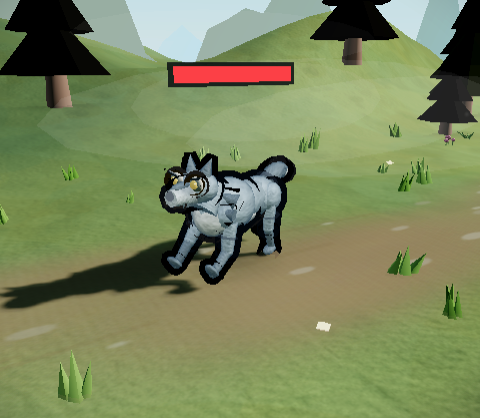
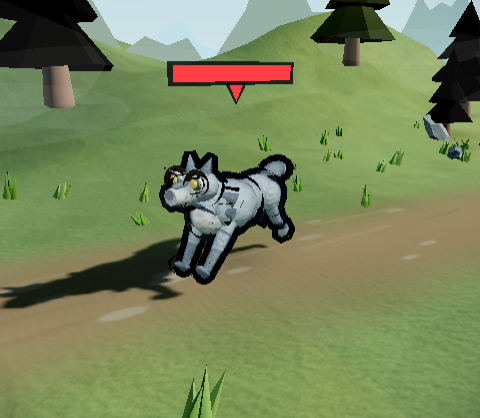
늑대 몸 덩어리 17개가 눌린 완전구였던 것 — 살에는 살의 자로 (enemy-quality ⓒ 늑대)
골렘은 각지게 깎는 게 정답이지만 살·털에 같은 자를 대면 '수정 늑대'가 된다.
그래서 sculptOrganic 을 따로 뒀다 — 저진폭·저주파로 부드럽게 윤곽만 깨고
법선을 매끈하게 다시 계산한다.

- 주파수를 낮게 잡으면 변형이 통째로 무효였다: 지름에 한 주기가 안 들어가면
  변위가 균일 스케일에 수렴해 실루엣이 안 깨진다(seed 따라 cv 0.0188~0.0542).
  3.1/2.6/2.1 로 올려 0.0312~0.0662 로 안정. 진폭이 아니라 주파수가 답이었다.
- 프로브 측정 대상 오선정 2건 교정: 눈알(완전구가 정답)과 공용 캡슐 캡을 제외.
  캡슐 판별을 자식 수가 아니라 기하학으로 확정(캡 y = 원기둥 y 의 2배).
  같은 판별을 probe-golem-bevel 에도 반영, 골렘 재검증 통과.
- 신설 probe-flesh-sculpt.js 5항목 통과 · 이음새 찢어짐 0 · 법선각 24.5°.
- 회귀: probe-enemy-ao 늑대 후프 유출 0 · probe-screens-errors 31/31 에러 0.
- 죽은 코드 1건(backStripe 미부착)은 규칙 3대로 QA 등재만.

diff --git a/web/tools/probe-flesh-sculpt.js b/web/tools/probe-flesh-sculpt.js
@@ -1,0 +1,197 @@
+// 살·털 종 조형(ⓒ 유기 변형) 실측 — 사용: node probe-flesh-sculpt.js
+// TODO '적 몬스터 퀄리티 업'(slug: enemy-quality) ⓒ 의 골렘 이후 분. 골렘은 `boulderGeo` 로 **각지게**
+// 깎았지만 늑대·고블린·임프는 살이라 같은 자를 대면 '수정 늑대'가 된다 — `Scene3D.sculptOrganic` 은
+// 저주파·저진폭으로 **부드럽게** 윤곽만 깬다. 그래서 게이트도 golem 쪽(probe-golem-bevel)과 다르다.
+//
+// ⚠ 인자를 손으로 베끼지 않는다(함정 ④⑴) — 늑대는 `Scene3D.monsterMesh()` 를 진짜로 태워서 잰다.
+//    ②④ 만 헬퍼 계약 자체를 재는 것이라 직접 호출한다.
+//
+// 지표 4종:
+//  ① 실루엣 비대칭 — 완전구는 반경 변동계수 0 이다. 유기 변형은 골렘보다 **일부러 약하므로** 게이트도 낮다.
+//  ② 이음새 무결성 — `SphereGeometry` 는 인덱스 지오메트리지만 **uv 이음새(u=0/u=1)와 극점에 같은
+//     좌표의 정점이 여러 벌** 있다. 인덱스로 변위를 뽑으면 그 사본들이 제각각 움직여 이음새가 찢어진다.
+//     변형 **전에 같은 좌표였던 정점 무리가 변형 후에도 한 점에 모여 있는가**를 직접 본다.
+//  ③ 부드러움 — 이웃 삼각형 법선 사이 각. 각지게 깎였으면(=boulderGeo 를 잘못 쓴 것) 여기서 튄다.
+//  ④ 결정론 — 같은 seed 두 번이면 정점이 비트 단위로 같아야 한다(전역 RNG 불소비).
+//  ⑤ 개체차 — 파츠끼리 사실상 같은 덩어리면 '복붙'이다. ⚠ 상관계수 금지(기반 형상이 공통이면 자동 1).
+const { chromium } = require(process.env.PW_PATH || '/opt/node22/lib/node_modules/playwright');
+const INDEX = 'file://' + require('path').resolve(__dirname, '../index.html');
+
+const CV_MIN = 0.022;    // 완전구는 0. 유기 변형은 골렘(0.055)보다 약하게 거는 게 의도다.
+const SMOOTH_MAX = 34;   // 이웃 면 법선각 평균 상한(도) — 넘으면 결정처럼 각졌다는 뜻
+const DIFF_MIN = 0.015;  // 파츠 간 정규화 반경 RMS 차
+
+(async () => {
+    const browser = await chromium.launch({ executablePath: '/opt/pw-browsers/chromium', args: ['--use-gl=angle', '--enable-unsafe-swiftshader'] });
+    const page = await browser.newPage({ viewport: { width: 480, height: 854 } });
+    const errors = [];
+    page.on('pageerror', e => errors.push(String(e)));
+    page.on('console', m => { if (m.type() === 'error') errors.push(m.text()); });
+    await page.goto(INDEX + '?enemy=wolf', { waitUntil: 'load' });
+    await page.waitForFunction(() => typeof Scene3D !== 'undefined' && Scene3D.scene, null, { timeout: 60000 });
+    await page.waitForTimeout(1200);
+
+    const res = await page.evaluate(() => {
+        const out = { masses: [], seam: null, det: null, pairs: [], nSphere: 0, nCapsule: 0 };
+
+        const g = Scene3D.monsterMesh({ id: 1 }).g;   // .g 가 씬 그룹 (monsterMesh 는 파츠 묶음을 준다)
+
+        // `ProChar.capsule`(Cylinder + 아래쪽 반구 캡)은 영웅도 쓰는 **공용 사지 프리미티브**라
+        // ⓒ 대상이 아니다 — 피벗이 위쪽 끝인 분절 리그가 얹혀 있어 지오메트리를 갈면 굽힘이 틀어진다.
+        // 캡도 furM/furD 를 물고 있어 재질 필터만으로는 안 걸러진다(실측: 8개가 그대로 섞여 들어와
+        // 좌우 대칭 캡끼리 최소차 0.0000 을 냈다). golem 쪽 프로브와 같은 판별을 쓴다.
+        const isCapsulePart = m => {
+            // ⚠ 자식 수로 판별하지 말 것 — 분절 사지는 캡슐 그룹에 **다음 마디를 매달아** 키운다
+            //    (`upper.add(lower)`·`lower.add(paw)`). 늑대는 그래서 자식이 3개라 '정확히 2개' 조건이
+            //    통째로 빗나갔고 캡 8개가 게이트에 섞여 들어왔다(실측: 좌우 대칭 캡끼리 최소차 0.0000).
+            //    구조로 본다 — 같은 재질의 Cylinder 형제가 있으면 그건 캡슐의 반구 캡이다.
+            //    ⚠ 반대로 '같은 재질 Cylinder 형제가 있으면 캡슐'로 느슨하게 보면 이번엔 **몸통이
+            //    통째로 제외된다** — 늑대는 `belly`·`neckW` 원기둥이 흉곽·골반과 같은 furM 을 물고
+            //    같은 그룹에 있다(실측: 측정 대상이 19개에서 7개로 줄었다).
+            //    캡슐의 캡은 기하학적으로 확정된다: 캡 반지름 = 원기둥 아래 반지름이고,
+            //    원기둥이 y=-len/2, 캡이 y=-len 이라 **캡의 y 는 정확히 원기둥 y 의 2배**다.
+            //    캡슐은 두 피스 다 게이트 밖이라 **양쪽 역할을 다 본다** — 캡만 걸러내면 원기둥 6개가
+            //    그대로 '프리미티브 잔존'으로 잡힌다(실측).
+            const p = m.parent;
+            if (!p || !p.isGroup) return false;
+            const pair = (sph, cyl) => {
+                const r = sph.geometry.parameters && sph.geometry.parameters.radius;
+                const cp = cyl.geometry.parameters || {};
+                return r !== undefined && Math.abs(cp.radiusBottom - r) < 1e-9
+                    && Math.abs(sph.position.y - 2 * cyl.position.y) < 1e-9;
+            };
+            const t = m.geometry.type;
+            if (t !== 'SphereGeometry' && t !== 'CylinderGeometry') return false;
+            return p.children.some(c => {
+                if (c === m || !c.isMesh || c.material !== m.material) return false;
+                if (t === 'SphereGeometry') return c.geometry.type === 'CylinderGeometry' && pair(m, c);
+                return c.geometry.type === 'SphereGeometry' && pair(c, m);
+            });
+        };
+
+        // ── ① 실루엣: 늑대의 구 유래 메시를 진짜 코드 경로에서 잰다 ──
+        g.traverse(m => {
+            if (!m.isMesh || m.geometry.type !== 'SphereGeometry') return;
+            // 털 재질(hideTex 맵을 문 것)만 — 눈알(흰자·홍채·동공·하이라이트)은 **완전구가 정답**이라
+            // 여기에 섞이면 ①⑤ 가 영원히 FAIL 한다(실측: 필터 없이 34개가 잡혀 최소차 0.0000).
+            // 코(MeshBasic, 맵 없음)도 광택 구슬이라 그대로 둔다.
+            if (!m.material || !m.material.map) return;
+            if (isCapsulePart(m)) { out.nCapsule++; return; }
+            const pos = m.geometry.attributes.position;
+            out.nSphere++;
+            let cx = 0, cy = 0, cz = 0;
+            for (let i = 0; i < pos.count; i++) { cx += pos.getX(i); cy += pos.getY(i); cz += pos.getZ(i); }
+            cx /= pos.count; cy /= pos.count; cz /= pos.count;
+            const rs = [];
+            for (let i = 0; i < pos.count; i++) rs.push(Math.hypot(pos.getX(i) - cx, pos.getY(i) - cy, pos.getZ(i) - cz));
+            const mean = rs.reduce((a, b) => a + b, 0) / rs.length;
+            const sd = Math.sqrt(rs.reduce((a, b) => a + (b - mean) * (b - mean), 0) / rs.length);
+
+            // ③ 부드러움 — 인덱스를 공유하는 이웃 삼각형끼리 법선각
+            const idx = m.geometry.index;
+            let angSum = 0, angN = 0, angMax = 0;
+            if (idx) {
+                const triN = [], edge = new Map();
+                const V = i => [pos.getX(i), pos.getY(i), pos.getZ(i)];
+                for (let f = 0; f < idx.count; f += 3) {
+                    const a = V(idx.getX(f)), b = V(idx.getX(f + 1)), c = V(idx.getX(f + 2));
+                    const u = [b[0] - a[0], b[1] - a[1], b[2] - a[2]], v = [c[0] - a[0], c[1] - a[1], c[2] - a[2]];
+                    const n = [u[1] * v[2] - u[2] * v[1], u[2] * v[0] - u[0] * v[2], u[0] * v[1] - u[1] * v[0]];
+                    const L = Math.hypot(n[0], n[1], n[2]) || 1;
+                    triN.push([n[0] / L, n[1] / L, n[2] / L]);
+                    const t = triN.length - 1;
+                    for (const [p1, p2] of [[idx.getX(f), idx.getX(f + 1)], [idx.getX(f + 1), idx.getX(f + 2)], [idx.getX(f + 2), idx.getX(f)]]) {
+                        const k = [p1, p2].sort((x, y) => x - y).join('_');
+                        if (edge.has(k)) {
+                            const o = triN[edge.get(k)];
+                            const d = Math.min(1, Math.max(-1, o[0] * triN[t][0] + o[1] * triN[t][1] + o[2] * triN[t][2]));
+                            const ang = Math.acos(d) * 180 / Math.PI;
+                            angSum += ang; angN++; angMax = Math.max(angMax, ang);
+                        } else edge.set(k, t);
+                    }
+                }
+            }
+            out.masses.push({ n: pos.count, cv: mean ? sd / mean : 0, angMean: angN ? angSum / angN : 0, angMax, prof: rs.map(r => r / mean) });
+        });
+
+        // ── ② 이음새 무결성: 변형 **전** 좌표로 무리를 짓고, 변형 후에도 한 점인지 본다 ──
+        {
+            const raw = new THREE.SphereGeometry(0.19, 12, 9);
+            const rp = raw.attributes.position;
+            const groups = new Map();
+            for (let i = 0; i < rp.count; i++) {
+                const k = [rp.getX(i), rp.getY(i), rp.getZ(i)].map(v => Math.round(v * 1e6)).join(',');
+                if (!groups.has(k)) groups.set(k, []);
+                groups.get(k).push(i);
+            }
+            const shared = [...groups.values()].filter(a => a.length > 1);
+            const sc = Scene3D.sculptOrganic(new THREE.SphereGeometry(0.19, 12, 9), 2, { amp: 0.10 }).attributes.position;
+            let split = 0, worst = 0;
+            for (const grp of shared) {
+                for (let j = 1; j < grp.length; j++) {
+                    const d = Math.max(
+                        Math.abs(sc.getX(grp[0]) - sc.getX(grp[j])),
+                        Math.abs(sc.getY(grp[0]) - sc.getY(grp[j])),
+                        Math.abs(sc.getZ(grp[0]) - sc.getZ(grp[j])));
+                    worst = Math.max(worst, d);
+                    if (d > 1e-9) split++;
+                }
+            }
+            out.seam = { groups: shared.length, split, worst };
+        }
+
+        // ── ④ 결정론 ──
+        {
+            const a = Scene3D.sculptOrganic(new THREE.SphereGeometry(0.16, 11, 8), 3, { amp: 0.10 }).attributes.position;
+            const b = Scene3D.sculptOrganic(new THREE.SphereGeometry(0.16, 11, 8), 3, { amp: 0.10 }).attributes.position;
+            let worst = 0;
+            for (let i = 0; i < a.count; i++) {
+                worst = Math.max(worst, Math.abs(a.getX(i) - b.getX(i)), Math.abs(a.getY(i) - b.getY(i)), Math.abs(a.getZ(i) - b.getZ(i)));
+            }
+            out.det = { n: a.count, worst };
+        }
+
+        // ── ⑤ 개체차 ──
+        for (let i = 0; i < out.masses.length; i++) {
+            for (let j = i + 1; j < out.masses.length; j++) {
+                const A = out.masses[i].prof, B = out.masses[j].prof;
+                if (A.length !== B.length) continue;
+                let s = 0;
+                for (let k = 0; k < A.length; k++) s += (A[k] - B[k]) * (A[k] - B[k]);
+                out.pairs.push(Math.sqrt(s / A.length));
+            }
+        }
+        for (const m of out.masses) delete m.prof;
+        return out;
+    });
+
+    const fails = [];
+    console.log(`늑대 구 유래 덩어리 ${res.nSphere}개 · 공용 캡슐 캡 ${res.nCapsule}개(게이트 제외)`);
+
+    const cvs = res.masses.map(m => m.cv);
+    const minCv = Math.min(...cvs);
+    if (!res.masses.length) fails.push('① 덩어리가 하나도 안 잡혔다 — 코드 경로 확인 필요');
+    if (minCv < CV_MIN) fails.push(`① 반경 변동계수 최소 ${minCv.toFixed(4)} < ${CV_MIN} (완전구가 남아 있다)`);
+    console.log(`① 실루엣 비대칭 min ${minCv.toFixed(4)} / max ${Math.max(...cvs).toFixed(4)} (게이트 ${CV_MIN}) ... ${minCv >= CV_MIN ? 'PASS' : 'FAIL'}`);
+
+    if (res.seam.split) fails.push(`② 이음새 ${res.seam.split}쌍이 찢어졌다 (최대 ${res.seam.worst})`);
+    console.log(`② 이음새 공유 정점군 ${res.seam.groups}개 · 찢어진 쌍 ${res.seam.split}개 ... ${res.seam.split === 0 ? 'PASS' : 'FAIL'}`);
+
+    const angMean = Math.max(...res.masses.map(m => m.angMean));
+    if (angMean > SMOOTH_MAX) fails.push(`③ 이웃 법선각 평균 최대 ${angMean.toFixed(1)}° > ${SMOOTH_MAX}° (각졌다 — 살에 바위 자를 댄 것)`);
+    console.log(`③ 부드러움 이웃 법선각 평균 최대 ${angMean.toFixed(1)}° (상한 ${SMOOTH_MAX}°) ... ${angMean <= SMOOTH_MAX ? 'PASS' : 'FAIL'}`);
+
+    if (res.det.worst !== 0) fails.push(`④ 같은 seed 인데 정점이 다르다 (최대 ${res.det.worst})`);
+    console.log(`④ 결정론 정점 ${res.det.n}개 최대 차 ${res.det.worst} ... ${res.det.worst === 0 ? 'PASS' : 'FAIL'}`);
+
+    const minPair = res.pairs.length ? Math.min(...res.pairs) : 0;
+    if (res.pairs.length && minPair < DIFF_MIN) fails.push(`⑤ 파츠 간 최소차 ${minPair.toFixed(4)} < ${DIFF_MIN}`);
+    console.log(`⑤ 개체차 ${res.pairs.length}쌍 최소 ${minPair.toFixed(4)} (게이트 ${DIFF_MIN}) ... ${res.pairs.length === 0 || minPair >= DIFF_MIN ? 'PASS' : 'FAIL'}`);
+
+    if (errors.length) fails.push(`콘솔 에러 ${errors.length}건: ${errors.slice(0, 3).join(' | ')}`);
+    console.log(`콘솔 에러 ${errors.length}건`);
+
+    await browser.close();
+    if (fails.length) { console.log('\nFAIL:\n - ' + fails.join('\n - ')); process.exit(1); }
+    console.log('\n전부 PASS');
+})();

diff --git a/web/js/scene3d.js b/web/js/scene3d.js
@@ -3215,6 +3215,44 @@ const Scene3D = {
         geo.computeVertexNormals();
         return geo;
     },
+    // ⑸ 유기물 덩어리 — 살·털 종의 구를 **부드럽게** 비대칭으로 만든다.
+    //    `boulderGeo` 와 목적은 같고(윤곽 깨기) 자는 정반대다: 골렘은 돌이라 각진 파셋이 정답이지만
+    //    늑대·고블린·임프는 살이라 같은 걸 걸면 '수정 늑대'가 된다. 그래서 ㉠ 진폭을 낮추고
+    //    ㉡ **주파수를 낮춰** 노이즈가 아니라 근육/털뭉치 수준의 넓은 굴곡만 남기고
+    //    ㉢ 법선을 부드럽게 다시 계산한다(플랫셰이딩으로 가지 않는다).
+    //    ⚠ 이미 만들어진 지오메트리를 **제자리에서** 바꾼다 — 호출자가 정한 분할수와 mesh.scale
+    //       (늑대는 구를 타원체로 눌러 쓴다)을 그대로 살리려면 이 방식이어야 한다.
+    //    ⚠ 변위는 여기서도 **좌표 해시**다. `SphereGeometry` 는 인덱스 지오메트리라 인덱스 해시가
+    //       안전해 보이지만, uv 이음새(u=0/u=1)와 극점에 **같은 좌표의 정점이 여러 벌** 있어
+    //       인덱스로 뽑으면 이음새가 그대로 찢어진다.
+    sculptOrganic(geo, seed, opt) {
+        const o = opt || {};
+        const p = geo.attributes.position;
+        const amp = o.amp === undefined ? 0.09 : o.amp;
+        const s0 = (seed || 0) * 2.3391 + 0.17;
+        // 반경 기준은 바운딩 구 — 호출자가 어떤 크기의 구를 넘겨도 같은 **상대** 진폭이 나온다.
+        geo.computeBoundingSphere();
+        const R = Math.max(1e-4, geo.boundingSphere.radius);
+        const q = v => Math.round(v / R * 256) / 256;
+        for (let i = 0; i < p.count; i++) {
+            const x = p.getX(i), y = p.getY(i), z = p.getZ(i);
+            const qx = q(x), qy = q(y), qz = q(z);
+            // ⚠ 주파수를 더 낮추지 말 것 — 물체 지름에 한 주기가 채 안 들어가면 변위가 사실상
+            //    **균일 스케일 + 평행이동**에 수렴해 실루엣이 하나도 안 깨진다(반경 변동계수가 그대로다).
+            //    처음 2.3/1.7/1.29 로 뒀더니 같은 amp 인데 seed 에 따라 cv 가 0.0188~0.0542 로 요동쳤다 —
+            //    작아서가 아니라 물체가 사인의 단조 구간에 통째로 얹히는 seed 가 있어서였다.
+            //    지름에 대략 한 주기가 들어가는 지금 값이면 seed 와 무관하게 실제 굴곡이 남는다.
+            const k = Math.sin(qx * 3.1 + s0) * 0.40
+                + Math.sin(qy * 2.6 + s0 * 1.6) * 0.34
+                + Math.sin((qy + qz) * 2.1 + s0 * 0.6) * 0.26;
+            const f = 1 + k * amp;
+            p.setXYZ(i, x * f, y * f, z * f);
+        }
+        p.needsUpdate = true;
+        geo.computeVertexNormals();
+        geo.computeBoundingSphere();
+        return geo;
+    },
 
     // 조립이 끝난 장비 그룹에 시대 디테일을 얹는다 — 바운딩 박스에서 '아랫단 밴드'를 잡아
     // 계열마다 다른 것을 두른다(리벳 링 / 발광 링 / 가죽끈+뼈구슬 / 황동 스터드 / 폴리머 벤트).
@@ -6143,26 +6181,29 @@ const Scene3D = {
             const furM = lam(base, ProChar.hideTex());
             const furD = lam(base.clone().offsetHSL(0, 0.02, -0.22), ProChar.hideTex()); // 대비 강화 — 단색 클레이 오독 방지
             const furL = lam(base.clone().offsetHSL(0.01, -0.06, 0.27), ProChar.hideTex()); // 배·러프·꼬리끝 명확한 라이트 톤
-            body = mk(new THREE.SphereGeometry(0.19, 12, 9), furM);           // 흉곽 (앞이 크고)
+            // 몸 덩어리가 전부 **완전구를 눌러 만든 타원체**라 '회색 캡슐 조립'으로 읽혔다(ⓒ).
+            // 골렘처럼 각지게 깎으면 '수정 늑대'가 되므로 저주파·저진폭 유기 변형만 건다.
+            const oSp = (r, w, h, seed, amp) => this.sculptOrganic(new THREE.SphereGeometry(r, w, h), seed, { amp });
+            body = mk(oSp(0.19, 12, 9, 2, 0.10), furM);           // 흉곽 (앞이 크고)
             body.position.set(0, 0.42, 0.12); body.scale.set(0.9, 0.92, 1.25);
-            const hind = mk(new THREE.SphereGeometry(0.16, 11, 8), furM);     // 골반 (뒤가 작게)
+            const hind = mk(oSp(0.16, 11, 8, 3, 0.10), furM);     // 골반 (뒤가 작게)
             hind.position.set(0, 0.4, -0.22); hind.scale.set(0.82, 0.85, 1.1);
             const belly = mk(new THREE.CylinderGeometry(0.155, 0.13, 0.34, 10), furM); // 연결 몸통
             belly.rotation.x = Math.PI / 2; belly.position.set(0, 0.41, -0.05);
             belly.scale.set(0.9, 1, 0.92);
-            const ruff = mk(new THREE.SphereGeometry(0.15, 10, 8), furL);     // 앞가슴 밝은 러프 털
+            const ruff = mk(oSp(0.15, 10, 8, 4, 0.15), furL);     // 앞가슴 밝은 러프 털 — 털뭉치라 진폭을 크게
             ruff.position.set(0, 0.38, 0.26); ruff.scale.set(0.85, 0.8, 0.7);
             const neckW = mk(new THREE.CylinderGeometry(0.085, 0.105, 0.18, 9), furM);
             neckW.position.set(0, 0.52, 0.3); neckW.rotation.x = -0.7;
             g.add(body, hind, belly, ruff, neckW);
             const headW = new THREE.Group();                                   // 쐐기 두상 + 테이퍼 주둥이
             headW.position.set(0, 0.6, 0.38);
-            const skullW = mk(new THREE.SphereGeometry(0.105, 11, 8), furM);
+            const skullW = mk(oSp(0.105, 11, 8, 5, 0.06), furM);   // 눈이 상대 배치라 진폭을 낮게
             skullW.scale.set(1.24, 0.92, 1.05); // x 확폭 2차 — 1.12로도 3/4 각도에서 흰자+호박 홍채가 실루엣 밖 '유니콘 뿔'로 돌출 (비평가 7.1 14번)
             const muzzleM = lam(base.clone().offsetHSL(0.005, -0.04, 0.14), ProChar.hideTex()); // 주둥이 전용 중간 톤 — 순백 러프색은 '붙임 데칼'로 읽힘 (비평가)
             const snout = mk(new THREE.CylinderGeometry(0.048, 0.075, 0.16, 8), muzzleM);
             snout.rotation.x = Math.PI / 2; snout.position.set(0, -0.02, 0.14);
-            const bridge = mk(new THREE.SphereGeometry(0.045, 8, 6), furD); // 콧등 다크 스트라이프 — 밝은 주둥이와 톤 분리 (비평가: 주둥이가 두상에 뭉개짐)
+            const bridge = mk(oSp(0.045, 8, 6, 8, 0.07), furD); // 콧등 다크 스트라이프 — 밝은 주둥이와 톤 분리 (비평가: 주둥이가 두상에 뭉개짐)
             bridge.position.set(0, 0.03, 0.12); bridge.scale.set(0.8, 0.5, 2.1);
             headW.add(bridge);
             const noseW = mk(new THREE.SphereGeometry(0.028, 7, 6), new THREE.MeshBasicMaterial({ color: 0x1d2126 }));
@@ -6192,14 +6233,14 @@ const Scene3D = {
             }
             g.add(headW);
             eyes(0.645, 0.472, 0.072, 0.03, 'fierce', { iris: 0xe8b13c, glow: 0.25, tilt: -0.28, browColor: 0x3c414d }); // 흰자+호박 홍채 — 두상 안에 파묻어 배치(흰 뿔 오독 방지), 좌우 분리 유지
-            const backStripe = mk(new THREE.SphereGeometry(0.16, 10, 8), furD); // 등 다크 새들 — 목덜미→엉덩이 한 흐름으로 세그먼트 경계 은폐
+            const backStripe = mk(oSp(0.16, 10, 8, 6, 0.09), furD); // 등 다크 새들 — 목덜미→엉덩이 한 흐름으로 세그먼트 경계 은폐
             backStripe.position.set(0, 0.49, -0.03); backStripe.scale.set(0.78, 0.5, 2.45);
-            const bellyW = mk(new THREE.SphereGeometry(0.13, 10, 8), furL); // 밝은 아랫배 — 투톤 코트
+            const bellyW = mk(oSp(0.13, 10, 8, 7, 0.09), furL); // 밝은 아랫배 — 투톤 코트
             bellyW.position.set(0, 0.33, -0.02); bellyW.scale.set(0.8, 0.6, 1.6);
             g.add(bellyW);
             // 2관절 다리 4개: 어깨/고관절 피벗 → 상퇴 → 하퇴 → 발 (달리기 사이클은 기존 anim.legs 인터페이스)
             for (const [lx, lz, front] of [[-0.11, 0.22, 1], [0.11, 0.22, 1], [-0.1, -0.24, 0], [0.1, -0.24, 0]]) {
-                const haunch = mk(new THREE.SphereGeometry(front ? 0.072 : 0.088, 9, 7), furM); // 어깨/뒷다리 근육 덩어리 — 몸통-다리 이음새 은폐 ('로봇 다리' 오독 제거)
+                const haunch = mk(oSp(front ? 0.072 : 0.088, 9, 7, 10 + lx * 37 + lz * 11, 0.11), furM); // 어깨/뒷다리 근육 덩어리 — 몸통-다리 이음새 은폐 ('로봇 다리' 오독 제거)
                 haunch.position.set(lx * 0.95, front ? 0.41 : 0.4, lz + (front ? 0.015 : -0.02));
                 haunch.scale.set(0.75, 1.15, 1.2);
                 g.add(haunch);
@@ -6209,7 +6250,7 @@ const Scene3D = {
                 upper.rotation.x = front ? 0.12 : -0.2;
                 const lower = limb(0.034, 0.026, 0.17, furD);
                 lower.position.y = -0.18; lower.rotation.x = front ? -0.1 : 0.32;
-                const paw = mk(new THREE.SphereGeometry(0.045, 7, 6), furD); // 다크 삭스 발 — 색 분리
+                const paw = mk(oSp(0.045, 7, 6, 20 + lx * 29 + lz * 7, 0.08), furD); // 다크 삭스 발 — 색 분리
                 paw.position.set(0, -0.165, 0.025); paw.scale.set(1, 0.55, 1.35);
                 lower.add(paw);
                 upper.add(lower);
@@ -6235,7 +6276,7 @@ const Scene3D = {
                 const holder = new THREE.Group();
                 holder.position.set(0, 0, -0.068); // 분절 간격 축소+세그 연장 — '구슬 체인' 오독 방지 (비평가 13번)
                 holder.rotation.x = -0.26;
-                const seg = mk(new THREE.SphereGeometry(0.085 - ti * 0.011, 8, 6), ti === 2 ? furL : furD); // 두툼한 브러시 꼬리 — 질주 실루엣 방향성
+                const seg = mk(oSp(0.085 - ti * 0.011, 8, 6, 31 + ti * 13, 0.13), ti === 2 ? furL : furD); // 두툼한 브러시 꼬리 — 털이라 진폭 크게 — 질주 실루엣 방향성
                 seg.position.z = -0.045;
                 seg.scale.set(0.82, 0.82, 1.85);
                 holder.add(seg);

diff --git a/web/TODO.md b/web/TODO.md
@@ -341,6 +341,8 @@
 
 ### 🐛 QA 발견 버그
 
+- [ ] **늑대 등 다크 새들(`backStripe`)이 만들어만 지고 씬에 안 붙는다 — 죽은 코드 (slug: wolf-backstripe-dead)** (2026-08-18 3D 세션이 `enemy-quality` ⓒ 작업 중 프로브로 발견): `scene3d.js` 늑대 분기에서 `backStripe` 를 만들어 위치·스케일까지 주고는 **`g.add()` 를 안 한다**(바로 다음 줄 `bellyW` 만 `g.add(bellyW)` 로 붙는다). 그래서 주석이 말하는 '목덜미→엉덩이 한 흐름으로 세그먼트 경계 은폐'가 화면에서 **한 번도 일어난 적이 없다**. 발견 경위: 털 재질 구를 세는 프로브가 17개를 잡았는데 코드상 18개여야 해서 역추적했다. ⚠ 고칠 때 **그냥 `g.add(backStripe)` 만 하고 끝내지 말 것** — 등 전체를 덮는 어두운 타원(scale 0.78/0.5/2.45)이 새로 들어오는 것이라 흉곽·골반 실루엣과 AO 링(`probe-enemy-ao` 늑대 5개)에 그대로 영향을 준다. 붙인 뒤 `probe-enemy-ao` 늑대 후프 유출과 `enemy-wolf.png` 를 다시 볼 것. (규칙 3에 따라 진행 중이던 항목을 끊지 않고 등재만 함.)
+
 - [x] **재화가 단위 경계 바로 아래일 때 `1000k`·`1000m`·`1000b` 로 표기된다 — 한 칸 위 단위로 안 넘어간다 (slug: fmt-1000k-rollover)** (2026-08-18 QA 플레이 세션 실측, **비채점·비평가 불필요**): **재현 절차** — ① 새 세이브로 부팅 ② 디버그 탭 없이도 재현되지만 확인이 빠르도록 콘솔/디버그로 코인을 **999,900** 으로, 젬을 **999,999** 로 만든다 ③ 상단바를 본다. **기대**: 999,900 은 백만에 0.01% 모자라므로 `999k`(내림) 또는 `1m`(올림) 중 하나여야 하고, 어느 쪽이든 **`1000k` 같은 네 자리 가수는 나오면 안 된다** — `k/m/b/t/aa…` 접미사 체계의 목적이 "가수를 3자리 이하로 줄이는 것"이라 `1000k` 는 그 규칙을 스스로 깬다(원본 포지마스터도 `1m` 으로 넘긴다). **실제**: 상단바에 **`1000k`** 가 코인·젬 두 칸 모두에 뜬다(스크린샷 실측 390×844). 모든 단위 경계에서 같다 — `U.fmt` 실측: `999499→999k` / **`999500→1000k`** / `999999→1000k` / `1000000→1m`, `999499999→999m` / **`999500000→1000m`**, `999499999999→999b` / **`999500000000→1000b`**. `U.fmtDec` 도 같다(`999999→1000.00k`), Big 경로도 같다(`Big.of('999999')→1000k`, `9.999e17→1000aa`, `9.999e20→1000ab`). **원인 위치**: `js/util.js` `U.fmt`/`U.fmtDec` 의 축약 루프 — `while (Math.abs(v) >= 1000 && …) { v /= 1000; u++; }` 로 **먼저 나눈 뒤** `const body = Math.abs(v) >= 100 ? v.toFixed(0) : …` 로 **반올림한다**. 999.9999 는 루프 조건(`>= 1000`)을 통과하지 못해 단위가 `k` 에 멈춘 채로 `toFixed(0)` 에서 `1000` 으로 올라간다. `fmtBig` 도 같은 순서다. **수정 방향(제안)**: 반올림한 `body` 가 `1000` 이 되면 `v /= 1000; u++` 를 한 번 더 돌려 단위를 올린다(= 반올림 후 재정규화). 단위표 끝(`u === units.length-1`)에서는 그대로 두는 가드가 필요하다. **영향 범위**: `U.fmt` 는 상단바·상점 가격·장비 스탯·피해 숫자·리그 점수·패스 보상까지 전 화면 공용이라 한 곳만 고치면 전부 걸린다.
   - **[해결 2026-08-18 UI 스트림]** 제안대로 **반올림 후 재정규화**로 고쳤다 — 세 경로(`U.fmt`·`U.fmtDec`·`fmtBig`)가 같은 결함을 각자 복제하고 있어서, 공용 헬퍼 `bigRenorm(shown, tier, decimals)` 를 `js/bignum.js` 에 두고 셋이 모두 부르게 했다(한 곳만 고치면 나머지 둘이 남는 구조였다). 반올림한 가수가 1000 이 되면 `tier+1` 로 올려 다시 적고, 단위표 끝(`bigUnitFor` 가 null)에서는 올릴 자리가 없으니 그대로 둔다.
     · **부호 처리도 같이 정리했다** — 자릿수 판정이 `Math.abs(v) >= 100` 로 절댓값을 보면서 포맷은 부호 붙은 `v` 를 쓰는 뒤섞인 코드였다. 절댓값으로만 축약하고 부호는 마지막에 붙인다(`U.fmt(-999999) → -1m`, `U.fmt(-1234) → -1.23k`).
@@ -1762,6 +1764,7 @@
   - 진행 메모(3D 스트림 세션, 2026-08-17 15:0x): **② 시대 재질 정체성 완료 → ①②③ 전부 반영. 남은 건 ⑤의 비평가 채점뿐인데 그건 '최후반 폴리싱' 규칙에 걸려 있어 [ ] 유지**(다음 세션은 처음부터 만들 필요 없이 채점만 받으면 된다). **문제의 실체**: 무기는 `weaponMatKind`가 시대를 stone/bone/blackpowder/gunmetal/energy로 이미 갈라놨는데 **투구·갑옷·장신구는 전 시대가 같은 식 하나**였다 — `new THREE.Color(시대색).lerp(스틸, 0.32) + metalness .85`. 그래서 원시 '뼈 투구'도 매끈한 회백 금속으로 나와 **시대색만 다른 같은 물건**으로 읽혔다. **넣은 것**: ① `Scene3D.ageGearKind(age)`/`ageGearMats(age)` 신설 — 무기와 **같은 시대 구획**(0 primal / 1 forged / 2 brass / 3 polymer / 4+ alloy)으로 body·dark·trim 3종 재질을 굽는다. primal=돌 입자 맵+flatShading+metalness .02, forged=브러시드 결 맵+.86, brass=황동 .8, polymer=무광 폴리머 .34, alloy=어두운 합금 .9+언릿 발광 트림. ② `Scene3D.addAgeTrim(g, mats)` — 조립이 끝난 그룹의 **바운딩 박스에서 아랫단 밴드를 역산**해 계열별 디테일을 두른다(리벳 8개 / 발광 링+세로 스트립 / 가죽끈+뼈이빨 3개 / 황동 밴드+스터드 4개 / 벤트 슬랫 3줄). 스타일이 투구 11종·갑옷 6종이라 **좌표 상수로는 못 맞춘다** — 실제 크기에서 재는 게 유일한 방법. ③ 적용처: `makeHelmet`(인게임 투구와 공용) · `makeArmorPreview` · `makeArmorExtras`(4번째 인자로 mats, 인게임 호출부도 전달) · `makeAccessoryPreview`. **⚠ 두 번 밟은 함정**: ⑴ **맵은 albedo에 곱해진다** — rockTex 베이스가 #b9bcc0(≈0.73), leatherTex가 #c9b8a6이라 맵을 얹는 계열은 color를 그만큼 올려두지 않으면 시대색이 통째로 한 단 어두워진다(primal·forged에 +0.06 명도 보정). ⑵ **링은 원이 아니라 타원이어야 한다** — 갑옷 몸통은 0.46×0.30 박스라 원 링을 두르면 앞뒤로 6cm 떠서 '허공의 고리'가 된다. `ellipseRing()`이 토러스를 눕힌 뒤 scale.y로 z반경을 맞춘다(rotation.x=π/2면 **로컬 y가 월드 z**). ⑶ 갑옷 트림은 **견갑·망토를 붙이기 전에** 둘러야 한다 — 다 붙인 뒤 재면 반경이 0.23→0.44로 커져 리벳이 가슴 앞 허공에 뜬다. ⑷ 하드코딩된 파생 재질(`metalness: 0.85` 고정으로 만들던 림·코가드·가면판·tech 셸)을 `tintOf(base, 명도차)`로 갈았다 — 안 그러면 원시 투구에 강철 림만 반짝인다. **가죽·로브 계열**(hide/robe/망토/로브자락)은 시대색은 유지한 채 metalness만 빼서 '철판 원피스'를 막았다. **검증**: `web/tools/probe-age-materials.js`(신설) 5항목 전부 통과 — 재질 계열 5구획 / 계열별 PBR 서명 5종 고유 / 전 10시대 디테일 부착(원시 4개·중세 8개·근세 5개·현대 3개·미래 2개) / 시대별 썸네일 픽셀 전부 상이 / 콘솔 에러 0. 컨택트 시트 `web/tools/shot-age-gear.js` → `web/tools/age-gear.png`(시대 10행 × 부위 6열, 192px). 회귀: probe-screens-errors 31/31 · probe-forge-list-thumbs 5항목 전부 통과(그룹 80개 중복 0 유지). **⚠ 별건 발견 — `web/tools/shot-helm.js`의 카메라 피팅이 깨져 있다**: 투구가 아니라 **뒤쪽 풍경**이 찍힌다(내 변경 전 코드로 되돌려 찍어도 같은 그림 = 기존 결함, 회귀 아님). 투구를 근접 검증하려는 다음 세션은 이 도구부터 고칠 것.
   - 진행 메모(3D 스트림 세션, 2026-08-17 13:xx): **①·③ 완료, ② 시대 재질 정체성만 남음 — [ ] 유지.** **① 이모지 반복 제거**: `renderForgeListView`가 부위별 고정 이모지(🪖/👕/SLOT_EMOJI)를 이름 개수만큼 찍던 걸, 이미 있던 3D 스냅샷 파이프라인(`Scene3D.itemThumb` — 장비 상세 팝업이 쓰던 것)으로 교체했다. **③ 이름 정합(부분)**: 중복의 진짜 원인은 목록 렌더가 아니라 `HELMET_STYLES`/`ARMOR_STYLES`가 **한 시대 안에서 같은 스타일을 두 번 쓰던 것**이었다(예: 원시 helmet `['hair','mask','mask','visor','plume']` → 가면과 전투 페인트가 같은 모델). 스타일이 곧 프리뷰 모델이라 이름만 다르고 그림이 같았다 — 두 표를 **시대 안에서 전부 고유**하도록 이름 뜻에 맞춰 재배정했다(깃털 모자=plume, 뱀의 화관=crown 식). 실측: (시대,부위) 80개 그룹 **전부 고유, 중복 0** (이전 17개 그룹 중복). **하이드레이트 방식 주의**: 셀이 306개라 목록 열 때 전부 구우면 얼어붙는다(첫 `itemThumb`가 썸네일 렌더러+PMREM을 만드느라 소프트웨어 GL 실측 2.4초). 프레임당 6장씩 나눠 굽고 목록이 닫히거나 재렌더되면 중단한다. **IntersectionObserver 지연 로딩은 쓰지 말 것 — 헤드리스에서 콜백이 아예 안 와서 썸네일이 하나도 안 뜬다(실측).** 밝은 장비가 흰 칸에 묻혀 빈 칸처럼 보여 `.fl-face.has-thumb`에 옅은 바탕만 추가. **남은 일 ②**: 시대별 재질 언어(원시=돌·나무·뼈·가죽, 중세=단조 철·리벳, 미래=합금·발광 라인)를 실제 프리뷰 모델 재질에 반영 — 지금은 시대색만 다르고 재질감은 공통이라 원시 장비도 매끈한 회백색으로 나온다. 검증: `web/tools/probe-forge-list-thumbs.js` 5항목 통과, 목록 캡처 `web/tools/forge-list-thumbs.png`, 전 화면 스모크 31/31 콘솔 에러 0건.
 - [ ] **적 몬스터 퀄리티 업 (slug: enemy-quality) (사용자 지시)**: GLB 삭제로 복귀한 프로시저럴 적 7종(슬라임·골렘·고블린·박쥐·버섯·늑대·임프)+보스 변형의 품질을 영웅과 같은 수준으로 끌어올릴 것 — 영웅에 적용한 기법(캔버스 생성 텍스처, AO 링, 관절 분절 리그, 베벨 지오메트리, 얼굴 디테일)을 적에도 적용하고, 종별 개성(실루엣·재질·고유 모션)을 강화. 비평가 'AAA 모바일 3D 게임 적으로 믿을 수 있는가' 9/10 통과제, 종 단위로 나눠 커밋 가능.
+  - 진행 메모(3D 스트림, 2026-08-18 04:1x — **ⓒ 늑대 완료(골렘에 이어 2종). ⓒ 나머지 종·ⓓ~ⓕ 남아 [ ] 유지**): ■ **실체**: 늑대의 몸 덩어리 17개(흉곽·골반·러프·두개골·콧등·아랫배·근육 4·발 4·꼬리 3)가 전부 **완전구를 mesh.scale 로 눌러 만든 타원체**였다 — '회색 캡슐 조립' 오독의 본체다. ■ **골렘 자를 그대로 대면 안 된다**: `boulderGeo` 는 각진 파셋이 정답인 '돌'의 자라, 살·털에 걸면 '수정 늑대'가 된다. 그래서 `Scene3D.sculptOrganic(geo, seed, opt)` 를 따로 신설했다 — 저진폭·저주파로 **부드럽게** 윤곽만 깨고 법선을 매끈하게 다시 계산한다. 또 `boulderGeo` 와 달리 **이미 만들어진 지오메트리를 제자리에서** 바꾼다(호출자가 정한 분할수와 mesh.scale 을 그대로 살려야 해서다). ■ 🚨 **함정 1건 — 주파수를 너무 낮추면 변형이 통째로 무효다**: 처음 계수를 2.3/1.7/1.29 로 뒀더니 **같은 amp 인데 seed 에 따라 반경 변동계수가 0.0188~0.0542 로 요동**쳤다. 원인은 크기가 아니라, **물체 지름에 한 주기가 안 들어가면 변위가 사실상 '균일 스케일 + 평행이동'에 수렴**해 실루엣이 하나도 안 깨지는 것이었다(사인의 단조 구간에 물체가 통째로 얹히는 seed 가 있다). 3.1/2.6/2.1 로 올려 지름에 대략 한 주기가 들어가게 하니 seed 와 무관하게 0.0312~0.0662 로 안정됐다. **진폭을 올리는 게 아니라 주파수를 올리는 게 답이었다** — amp 를 키우면 '녹아내린' 인상만 늘고 cv 는 그대로다. ■ 🚨 **함정 2건 — 프로브 필터가 두 번 연속 틀렸다(측정 대상 오선정)**: ㉠ 눈알(흰자·홍채·동공·하이라이트)이 같은 `SphereGeometry` 라 그대로 섞여 들어와 **개체차 최소 0.0000** 이 나왔다 — 눈은 **완전구가 정답**이라 게이트에 들어가면 영원히 FAIL 한다. 털 재질(hideTex 맵)로 걸렀다. ㉡ `ProChar.capsule` 의 반구 캡 8개도 같은 furM 을 물어 재질 필터를 통과했다. **자식 수로 캡슐을 판별하면 안 된다** — 분절 사지는 캡슐 그룹에 다음 마디를 매달아 키워서(`upper.add(lower)`) 자식이 3개다(골렘용으로 쓴 '정확히 2개' 조건이 늑대에서 그대로 빗나갔다). 반대로 '같은 재질 Cylinder 형제가 있으면 캡슐'로 느슨하게 잡으면 이번엔 **몸통이 통째로 제외된다**(늑대는 `belly`·`neckW` 원기둥이 흉곽·골반과 같은 재질·같은 그룹이라, 측정 대상이 19→7 로 줄었다). 최종적으로 **기하학으로 확정**했다: 캡 반지름 = 원기둥 아래 반지름이고 **캡의 y 가 원기둥 y 의 정확히 2배**다(캡슐이 y=-len/2, y=-len 에 놓이므로). 캡슐은 두 피스 다 게이트 밖이라 **양쪽 역할을 다 보게** 했다 — 캡만 거르면 원기둥 6개가 도로 '프리미티브 잔존'으로 잡힌다. 이 판별은 `probe-golem-bevel.js` 에도 같이 반영했다(골렘 재검증 통과). ■ **검증**: 신설 `tools/probe-flesh-sculpt.js` 5항목 **전부 통과** — 반경 변동계수 **0.0312~0.0662**(완전구는 0, 게이트 0.022) · 변형 **전** 좌표로 무리 지은 이음새 정점군 10개 중 **찢어진 쌍 0**(uv 이음새·극점은 같은 좌표 정점이 여러 벌이라 인덱스 해시면 그대로 찢어진다) · 이웃 법선각 평균 최대 **24.5°**(상한 34° — 각지면 '살에 바위 자를 댄 것') · 결정론 최대차 **0** · 파츠 20쌍 최소차 **0.0312**(게이트 0.015). 회귀: `probe-enemy-ao` 늑대 링 5개 후프 유출 0 · `probe-screens-errors` **31/31 콘솔 에러 0** · `enemy-wolf.png` 재촬영(유기 변형은 의도대로 **은은해서** 96px 썸네일에서는 차이가 작다 — 판정은 캡처가 아니라 cv 수치로 할 것). ■ **덤으로 죽은 코드 1건 발견 → QA 등재**(`wolf-backstripe-dead`): 등 다크 새들 `backStripe` 가 만들어만 지고 `g.add()` 가 안 돼 **화면에 한 번도 나온 적이 없다**(프로브가 17개를 잡았는데 코드상 18개여서 역추적). 규칙 3대로 고치지 않고 등재만 했다. ■ **다음 세션 착수 지점 = ⓒ 고블린·임프·버섯**. `sculptOrganic` 을 그대로 쓰면 된다(살 계열). 남은 census: 고블린 `Sphere 11`·`Cone 6`, 임프 `Sphere 5`·`Cone 7`, 버섯 `Sphere 5`·`Box 1`. ⚠ **눈알·코·뿔·송곳니·귀(Cone)는 건드리지 말 것** — 완전구/뾰족함이 정답인 부위다. → ⓓ 종별 고유 모션 → ⓔ 보스 변형 → ⓕ 비평가 9/10 채점.
   - 진행 메모(3D 스트림, 2026-08-18 03:5x — **ⓒ 착수·골렘 완료. ⓒ 나머지 종·ⓓ~ⓕ 남아 [ ] 유지**): ■ **실체**: 골렘의 어깨 볼더·팔꿈치 관절·주먹·너클 6개·골반·발·머리가 **전부 `SphereGeometry`**(16피스), 눈두덩은 `BoxGeometry`, 목은 `CylinderGeometry` 였다. `flatShading` 이 켜져 있어 **면은** 갈려 있었는데도 '눈사람'으로 읽힌 이유가 이것이다 — **깨야 하는 건 면 음영이 아니라 실루엣**이다(구는 어떤 플랫셰이딩을 걸어도 윤곽이 완전한 원이다). 장비의 '박스는 어떤 라이팅을 걸어도 박스'와 같은 벽의 거울상이고, 골렘 주석이 스스로 '눈사람 금지'라 적어 둔 바로 그것이다. ■ **앞 메모의 '헬퍼를 그대로 쓸 수 있다'는 절반만 맞았다**: `beveledSlab`·`shellFromRings` 는 **판과 관**에만 맞는다(눈두덩·목은 그걸로 됐다). **덩어리**에 쓸 게 없어 신설했다 — `Scene3D.boulderGeo(rad, seed, opt)`: `IcosahedronGeometry`(detail 1) 정점을 좌표 해시로 밀어 윤곽 자체를 깬다. ■ **맵 프롭 `rockGeo` 와 셋이 다르다**(그래서 재사용 대신 신설): ㉠ **시드가 결정론적** — `rockGeo` 는 `Math.random()` 시드를 쓰는데, 적 메시가 그러면 프로브가 같은 값을 못 재고 전역 RNG 소비량이 바뀌어 `shot-biomes.js` 의 시드 고정 프롭 배치가 통째로 밀린다. ㉡ **정점 컬러를 안 굽는다** — 골렘 재질은 `vertexColors` 가 꺼져 있고 켜면 색이 곱해져 스윕으로 채택한 명도가 내려간다. 여기서 바꾼 건 실루엣뿐이다. ㉢ 밑면을 눌러 쪼개진 단면을 남긴다(발은 `flatBottom` 0.34 — 둥근 밑면은 땅에 안 얹힌 것처럼 뜬다). ■ 🚨 **함정 1건**: 변위 해시는 **좌표를 반올림해서** 뽑을 것. `IcosahedronGeometry` 는 비인덱스라 같은 모서리 정점이 여러 벌 있는데, **detail>0 이면 세분 보간이 면마다 미세하게 달라 생좌표로 해시하면 그 오차만큼 메시가 갈라진다**(잎 조형이 밟은 '인덱스로 뽑지 말 것'의 한 단계 아래 함정 — 좌표로 뽑아도 양자화를 빼면 똑같이 뚫린다). ■ **일부러 안 건드린 것 3종**: ⑴ `ProChar.capsule` 사지 6개 — **영웅도 쓰는 공용 프리미티브**고 피벗이 위쪽 끝인 분절 리그가 얹혀 있어 지오메트리를 갈면 굽힘이 통째로 틀어진다 ⑵ 이끼 구(무른 유기물이라 각지면 안 된다) ⑶ 마그마 균열 박스(폭 0.013 — 베벨을 넣어도 화면에 아무 차이가 없다). 프로브가 이 3종을 게이트에서 제외하는 근거를 코드 주석으로 달아 뒀다. ■ **검증**: 신설 `tools/probe-golem-bevel.js` 5항목 **전부 통과** — 바위 재질 프리미티브 잔존 **0** · 반경 변동계수 **0.0659~0.1205**(완전구는 0, 게이트 0.055) · 위치 병합 후 **경계 모서리 0개**(구멍 없음) · 같은 seed 재호출 정점 최대차 **0**(결정론) · 파츠 60쌍 최소차 **0.0792**(게이트 0.040). ⚠ 개체차를 **상관계수로 재지 말 것**은 여기서도 유효해 반경 RMS 차를 썼다. 회귀: `probe-enemy-ao` 골렘 링 4개 **후프 유출 0**(실루엣이 울퉁불퉁해졌는데도 AO 링이 여전히 몸 안에 앉는다 — 이게 깨질까 봐 잰 것) · `probe-screens-errors` **31/31 콘솔 에러 0** · `enemy-golem.png` 재촬영(전/후 대조: 둥근 공 더미 → 각진 바위 덩어리). ■ **다음 세션 착수 지점 = ⓒ 나머지 종**. 남은 구·박스 census: 늑대 `Sphere 11`·`Box 1`·`Cone 5`, 고블린 `Sphere 11`·`Cone 6`, 임프 `Sphere 5`·`Cone 7`, 버섯 `Sphere 5`·`Box 1`. ⚠ **`boulderGeo` 를 그대로 갖다 쓰지 말 것** — 저건 '돌'의 자다. 살·털 종은 각진 파셋이 아니라 **부드러운 비대칭**이 필요하므로 `sculptFoliage` 계열(낮은 amp·수직 성분 감쇠)을 참고할 것. → ⓓ 종별 고유 모션 → ⓔ 보스 변형 → ⓕ 비평가 9/10 채점.
   - 진행 메모(3D 스트림, 2026-08-18 03:3x — **바로 아래 '주워 갈 것 하나'(AO 링 감쇠 알파맵) 처리 완료**): 폐기된 중복 구현에만 있던 개선을 인계 메모대로 얹었다. 4×64 흑백 세로 그라디언트를 `CanvasTexture` 로 구워 `alphaMap` 에 물리고, 기준 불투명도 0.5→0.75(op 지정 링은 ×1.5), `radialSegments` 6→10. **인계된 함정 2개를 그대로 지켰다** — ㉠ 알파 채널이 아니라 **색(회색조)** 으로 그렸다 ㉡ `uv.y=0 이 바깥 적도`라 **0(과 1) 쪽을 진하게** 깔았다(가운데를 진하게 깔면 정확히 반대로 걸린다). **실측으로 방향이 맞았음을 확인**: `probe-enemy-ao` 최대 하락폭이 골렘 53.1→**71.2** · 임프 70.8→**85.4** · 버섯 65.8→**79.9** 로 **올랐다**(뒤집혔다면 인계 메모대로 1/3로 죽었을 것이다). 이음새 심은 더 진해지고 옆구리로 갈수록 풀려 '검은 테이프' 인상이 사라졌다. 커버리지(어두워진 화소 104~296)와 **후프 유출 0** 은 그대로 유지. 회귀: `probe-enemy-ao` **검사 6종 전부 PASS** · `probe-enemy-dissolve` **전 종 PASS**(알파맵 재질도 `dissolveBase` 경로를 정상으로 탄다) · `probe-screens-errors` **31/31 콘솔 에러 0** · `enemy-golem.png` 재촬영.
   - ⚠ **중복 구현 사고 기록 + 다음 세션이 주워 갈 것 하나 (3D 스트림, 2026-08-18)**: 이 항목의 ⓐ(AO 링)는 **두 세션이 락을 각각 잡은 상태로 동시에 구현**했다(원인은 위 🔒 섹션 2번에 새로 적은 refresh push 실패 → 락 STALE 회수). 머지된 건 링 22개짜리 쪽이고, 나머지 한 벌(링 54개)은 **중복이라 폐기했다** — 되살리지 말 것. 다만 폐기한 쪽에만 있고 머지된 쪽에는 **없는** 개선이 하나 있으니 ⓑ~ⓕ 하는 김에 얹으면 값이 크다: **AO 링에 감쇠 알파맵을 물리는 것.** 지금 링은 균일 알파(0.42~0.58)라 가까이서 보면 '관절에 검은 테이프를 감은' 인상이 남는다. 토러스 UV 의 v(튜브를 감는 방향)를 따라 이음새선에서 최대 → 1/4바퀴에서 0 으로 죽는 회색조 캔버스(4×64)를 만들어 `alphaMap` 으로 물리면 진짜 크레비스 그림자처럼 부드럽게 풀린다. **함정 2개(둘 다 실측으로 밟았다)**: ㉠ three 의 `alphaMap` 은 텍스처의 **색(회색조)** 을 읽고 알파 채널은 무시한다 — `rgba(...,a)` 로 그리면 전 구간 불투명으로 읽혀 감쇠가 통째로 무시된다. ㉡ `TorusGeometry` 는 **uv.y=0 이 바깥 적도**(=몸 밖으로 나오는, 실제로 보이는 쪽)다 — 감쇠를 가운데 진하게 그리면 정확히 반대로 걸려 어두워짐이 1/3로 죽는다(실측 평균 -30 → -10). 그리고 알파맵을 물리면 유효 농도가 떨어지므로 기준 불투명도를 1.5배쯤 올려 다시 실측할 것. `radialSegments` 는 6이면 그라디언트가 계단 지므로 10으로. **얹은 뒤에는 `probe-enemy-ao.js` 를 반드시 다시 돌릴 것** — 농도가 바뀌면 링 반경 튜닝(후프 유출/파묻힘)이 같이 흔들린다.
